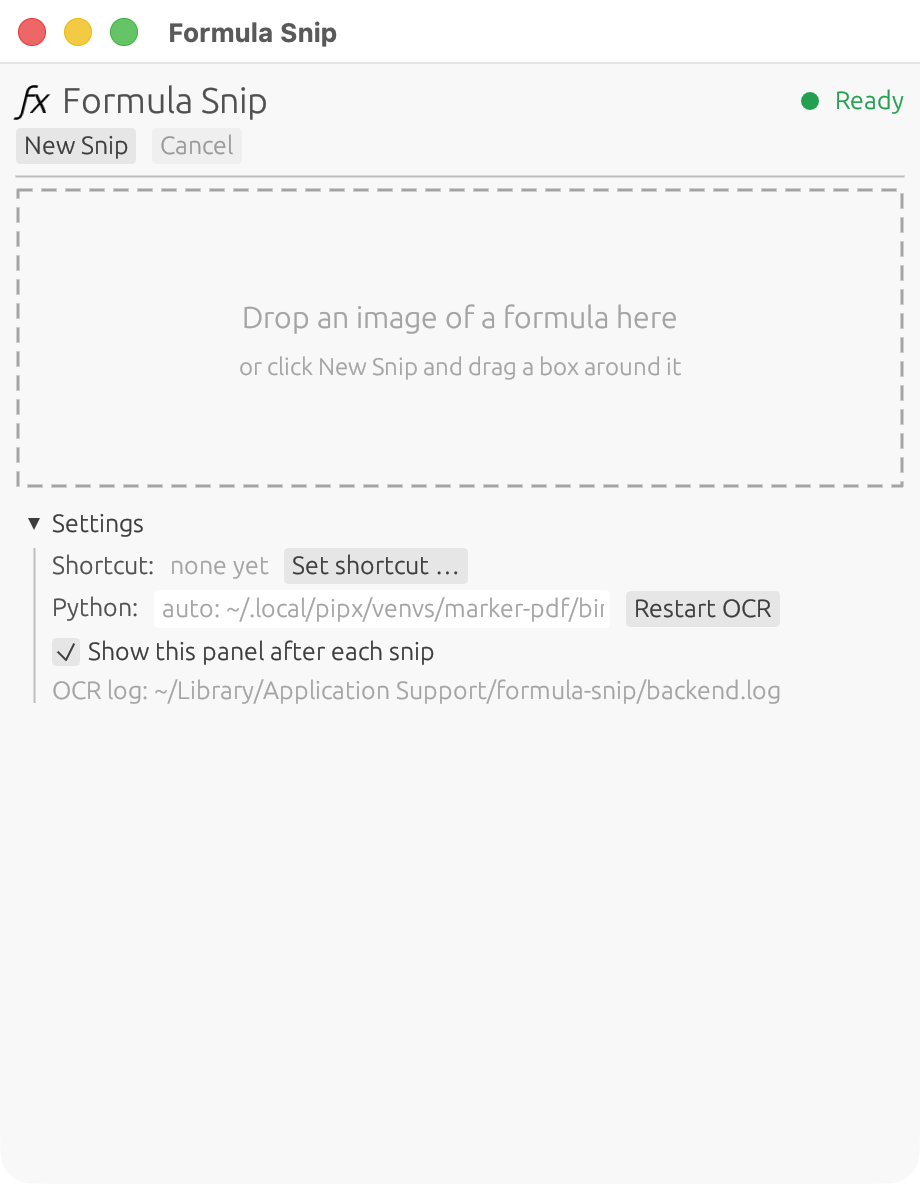
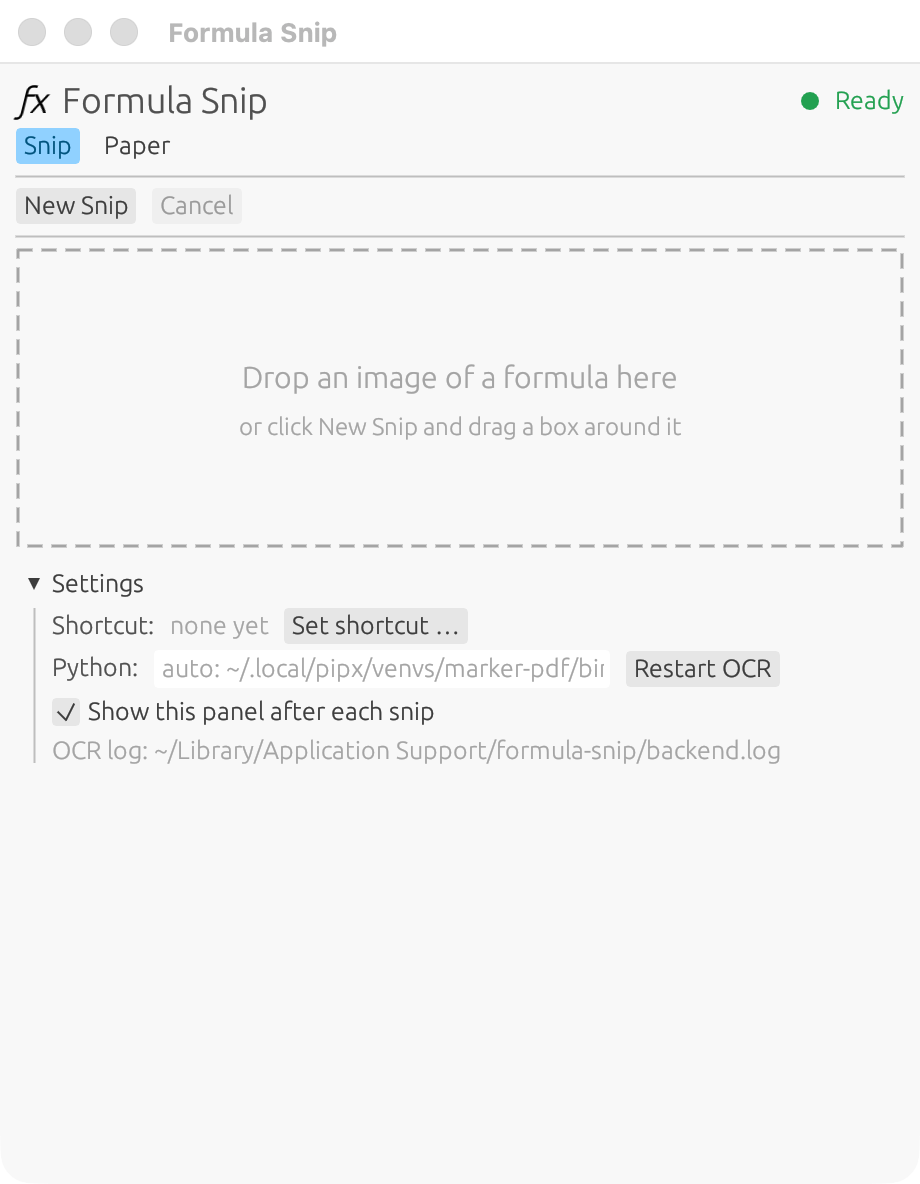
Update README and screenshots

diff --git a/src/app.rs b/src/app.rs
@@ -363,7 +363,10 @@ impl App {
 
     /// The Paper tab: PDF -> Markdown + formula registry, via `formula-snip convert`.
     fn paper_tab(&mut self, ui: &mut egui::Ui) {
-        let phase = self.paper.lock().unwrap().phase.clone();
+        let (phase, running_name) = {
+            let st = self.paper.lock().unwrap();
+            (st.phase.clone(), st.pdf_name.clone())
+        };
         let running = matches!(phase, paper::Phase::Running { .. } | paper::Phase::Cancelling);
 
         if !running {
@@ -428,20 +431,28 @@ impl App {
             paper::Phase::Idle => {}
             paper::Phase::Running { text, done, total } => {
                 ui.horizontal(|ui| {
+                    ui.with_layout(egui::Layout::right_to_left(egui::Align::Center), |ui| {
+                        if ui.button("Cancel").on_hover_text("Finished batches are kept: converting again resumes").clicked() {
+                            paper::cancel(&self.paper);
+                        }
+                        ui.with_layout(egui::Layout::left_to_right(egui::Align::Center), |ui| {
+                            ui.add(egui::Label::new(RichText::new(&running_name).strong()).truncate());
+                        });
+                    });
+                });
+                ui.horizontal(|ui| {
                     ui.spinner();
                     ui.label(text);
                 });
                 if total > 0 {
                     ui.add(egui::ProgressBar::new(done as f32 / total as f32).text(format!("{done} of {total} pages")));
                 }
-                if ui.button("Cancel").on_hover_text("Finished batches are kept: converting again resumes").clicked() {
-                    paper::cancel(&self.paper);
-                }
             }
             paper::Phase::Cancelling => {
+                ui.label(RichText::new(&running_name).strong());
                 ui.horizontal(|ui| {
                     ui.spinner();
-                    ui.label("Stopping …");
+                    ui.label("Stopping after the current step …");
                 });
             }
             paper::Phase::Done { out, summary, secs } => {

diff --git a/src/paper.rs b/src/paper.rs
@@ -29,6 +29,8 @@ pub enum Phase {
 #[derive(Default)]
 pub struct State {
     pub phase: Phase,
+    /// File name of the PDF being converted (shown while it runs).
+    pub pdf_name: String,
     stdin: Option<ChildStdin>,
     child: Option<Arc<Mutex<Child>>>,
 }
@@ -93,6 +95,7 @@ pub fn start(python: &Path, pdf: &Path, out: &Path, pages: &str, state: Arc<Mute
         let mut s = state.lock().unwrap();
         s.stdin = child.lock().unwrap().stdin.take();
         s.child = Some(child.clone());
+        s.pdf_name = pdf.file_name().map(|n| n.to_string_lossy().into_owned()).unwrap_or_default();
         s.phase = Phase::Running { text: "Starting …".into(), done: 0, total: 0 };
     }
     ctx.request_repaint();

diff --git a/README.md b/README.md
@@ -2,16 +2,22 @@
 
 <h1 align="center">Formula Snip</h1>
 
-<p align="center">Snip any formula on your screen and get its LaTeX in your clipboard.<br>
+<p align="center">Snip any formula on your screen and get its LaTeX in your clipboard, or turn a whole paper into Markdown with a registry of its formulas.<br>
 Runs fully offline on macOS, Windows and Linux, so it works as a local alternative to Mathpix Snip.</p>
 
-<p align="center"><img src="docs/screenshot.png" width="420" alt="Formula Snip panel showing a snipped formula and its LaTeX"></p>
+<p align="center">
+<img src="docs/screenshot.png" width="380" alt="Snip tab: a snipped Black-Scholes formula and its LaTeX">
+&nbsp;
+<img src="docs/screenshot-paper.png" width="380" alt="Paper tab: a 17-page paper converted, 359 formulas found">
+</p>
 
 ## Features
 
 - **Snip → LaTeX → clipboard.** Press your shortcut, drag a box around a formula, and the LaTeX is copied about 1–2 s later.
-- **Menu-bar / tray app.** The ƒx icon opens a small panel with the original image, the LaTeX, copy buttons (`LaTeX`, `$…$`, `\[…\]`) and **Cancel**. No history is kept.
-- **Drag & drop.** Drop an image onto the panel to convert it.
+- **Menu-bar / tray app.** The ƒx icon opens a small panel with two tabs:
+  - *Snip:* the original image, the LaTeX, copy buttons (`LaTeX`, `$…$`, `\[…\]`) and **Cancel**. No history is kept.
+  - *Paper:* whole-PDF conversion.
+- **Drag & drop.** Drop an image onto the panel to recognise it, or a PDF to open it in the *Paper* tab.
 - **Your own shortcut.** Nothing is preset. Pick any combination in *Settings*.
 - **Private.** OCR runs locally with the open-source [marker](https://github.com/datalab-to/marker) / surya model. Nothing leaves your computer.
 - **Text and math.** A single formula gives bare LaTeX. A paragraph gives text with `$inline$` and `\[display\]` math.
@@ -91,17 +97,33 @@ e^x = \sum_{n=0}^{\infty} \frac{x^n}{n!} = 1 + x + \frac{x^2}{2!} + \frac{x^3}{3
 
 ## Papers
 
+### In the panel
+
+1. Open the **Paper** tab.
+2. Drop a PDF, or click *Choose PDF …*. A page range is optional.
+3. Click *Convert*.
+
+<p align="center">
+<img src="docs/screenshot-paper-ready.png" width="380" alt="Paper tab with a PDF chosen: page range, Save to Downloads, Convert">
+&nbsp;
+<img src="docs/screenshot-paper-progress.png" width="380" alt="Paper tab while converting: pages 11-17, batch 2 of 2, 10 of 17 pages done">
+</p>
+
+- The result goes into a folder named after the PDF, in *Downloads*. *Change …* picks another folder, and the choice is saved as `papers_dir` in `config.json`.
+- The panel takes up to 100 pages per PDF. Pages are converted in batches of 10 with a progress bar.
+- *Cancel* keeps the finished batches, so converting again continues where it stopped.
+
+### From the command line
+
+The command line has no page limit:
+
 ```bash
 formula-snip convert paper.pdf --out paper/            # whole PDF
 formula-snip convert paper.pdf --out paper/ --pages 1-12 --json
 formula-snip formulas notes.md --out notes/            # registry only, for any Markdown
 ```
 
-In the panel, open the **Paper** tab, then drop a PDF or click *Choose PDF …*. A page range is optional. Click *Convert*.
-- The result goes into a folder named after the PDF, in *Downloads*. *Change …* picks another folder, and the choice is saved as `papers_dir` in `config.json`.
-- The panel takes up to 100 pages per PDF. Pages are converted in batches of 10 with a progress bar.
-- *Cancel* keeps the finished batches, so converting again continues where it stopped.
-- The command line has no page limit.
+### What you get
 
 `convert` runs marker's document pipeline locally (layout, tables, equations) and writes:
 
@@ -113,6 +135,24 @@ In the panel, open the **Paper** tab, then drop a PDF or click *Choose PDF …*.
 | `variables.json` | every symbol (`\sigma`, `r_f`, `\beta_i` …): where it first appears, which formulas use it, and its definition when the text says "where $r$ denotes …" or "let $S_t$ be …" |
 | `formulas.py` | one Python function per display formula sympy can parse. The rest are listed in `UNPARSED` with the reason. |
 | `meta.json` | source sha256, pages, marker version, timings, counts |
+
+Equation (2) of the [sample paper](examples/papers/sample.pdf), as it comes out:
+
+```markdown
+$$d_1 = \frac{\ln(S_0/K) + (r + \sigma^2/2)T}{\sigma\sqrt{T}} \tag{2}$$
+```
+
+```python
+def eq_2_d_1(K, S_0, T, r, sigma):
+    """d_1 = \\frac{\\ln(S_0/K) + (r + \\sigma^2/2)T}{\\sigma\\sqrt{T}}
+
+    Formula f9, page 1, section '1 The Black–Scholes model', equation (2). Returns the right-hand side (d_1 = …).
+
+    Variables:
+        r: the risk-free interest rate
+    """
+    return (T*(r + (1/2)*sigma**2) + math.log(S_0/K))/(math.sqrt(T)*sigma)
+```
 
 There is no AI anywhere in the formula pipeline. The registry comes from fixed rules, the
 same input always gives the same output, and notation that could be misread is listed with
@@ -134,9 +174,14 @@ same file again takes about a second (`--force` converts it again).
                       started once, model kept in memory; JSON lines over stdin/stdout
                          │
    clipboard + panel ◄── LaTeX
+
+ Paper tab / formula-snip convert
+                └─► backend/convert.py ─► marker document pipeline, 10 pages per batch
+                      progress as JSON lines │
+                                             └─► backend/formulas.py ─► formulas.json, variables.json, formulas.py
 ```
 
-The OCR model only exists as a Python package, so the Rust app starts one small Python helper (embedded in the binary) and keeps it running. Everything else is native.
+The OCR model only exists as a Python package. So the Rust app starts one small Python helper (embedded in the binary) and keeps it running. Paper conversion runs its own helper only while a PDF is being converted. Everything else is native.
 
 ## Configuration
 
